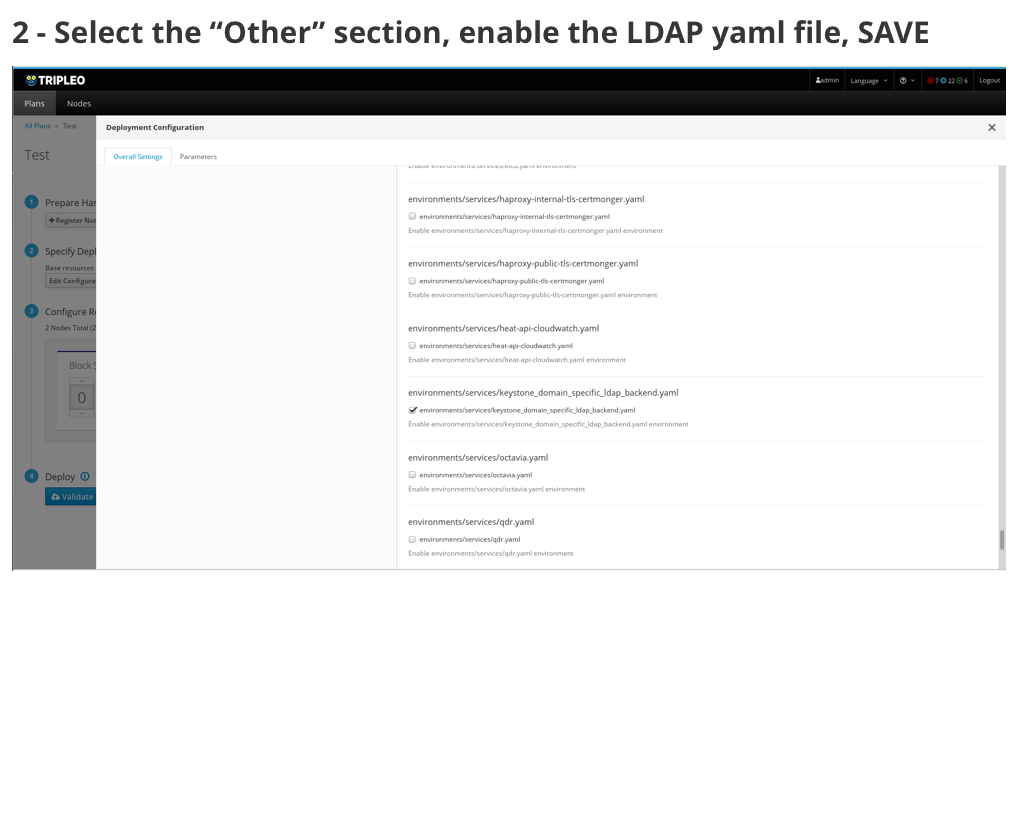
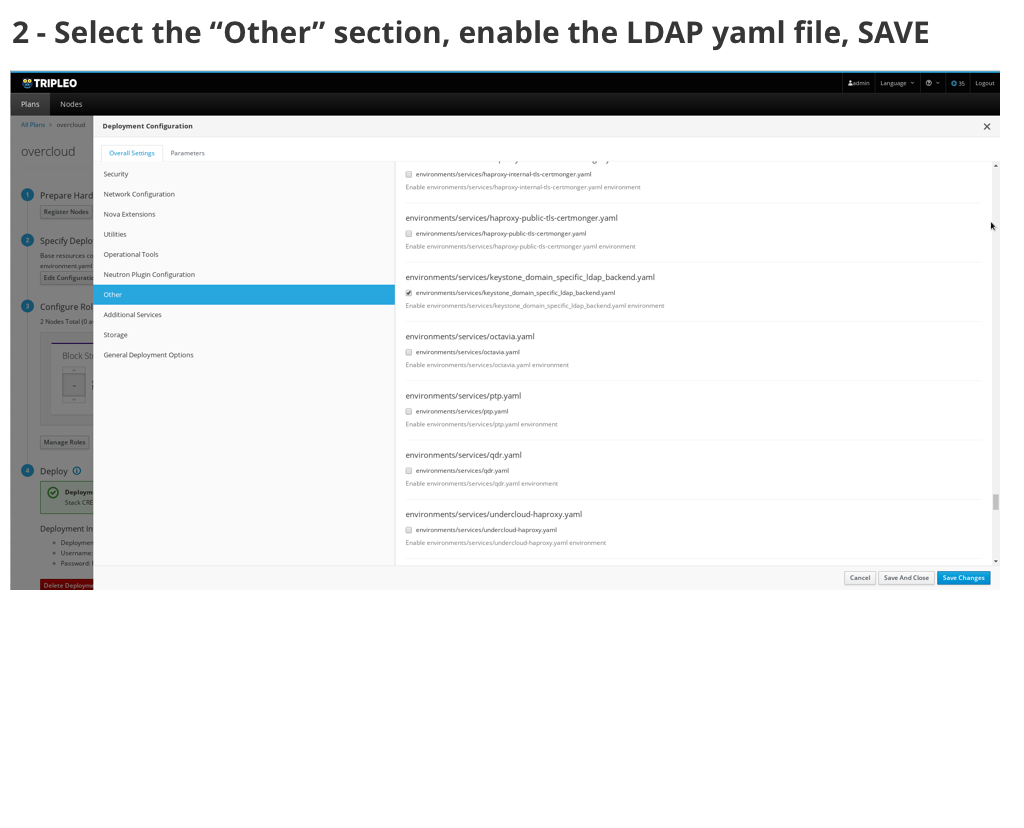
Updates to Authentication use case
Rename LDAP to AD/LDAP for clarity.
Add "Test Configuration" button.

Changed region(s): [[0.0, 0.0604, 1.0, 0.7246], [0.375, 0.5435, 0.5625, 0.6944], [0.8125, 0.2114, 1.0, 0.7246]]

diff --git a/tripleo-ui/5-popular-use-cases/5.Authentication.md b/tripleo-ui/5-popular-use-cases/5.Authentication.md
@@ -23,3 +23,6 @@ Today in the TripleO UI, the user needs to enable LDAP from the "Other" subsecti
 
 ![editconfigurationmodal2](img/Auth-Edit_Configuration_Modal2.png)
 - At this point, there would be a section for LDAP where the user would edit any LDAP parameters necessary.
+
+![editconfigurationmodal3](img/Auth-Edit_Configuration_Modal3.png)
+- There would be an optional button to test the configuration.
